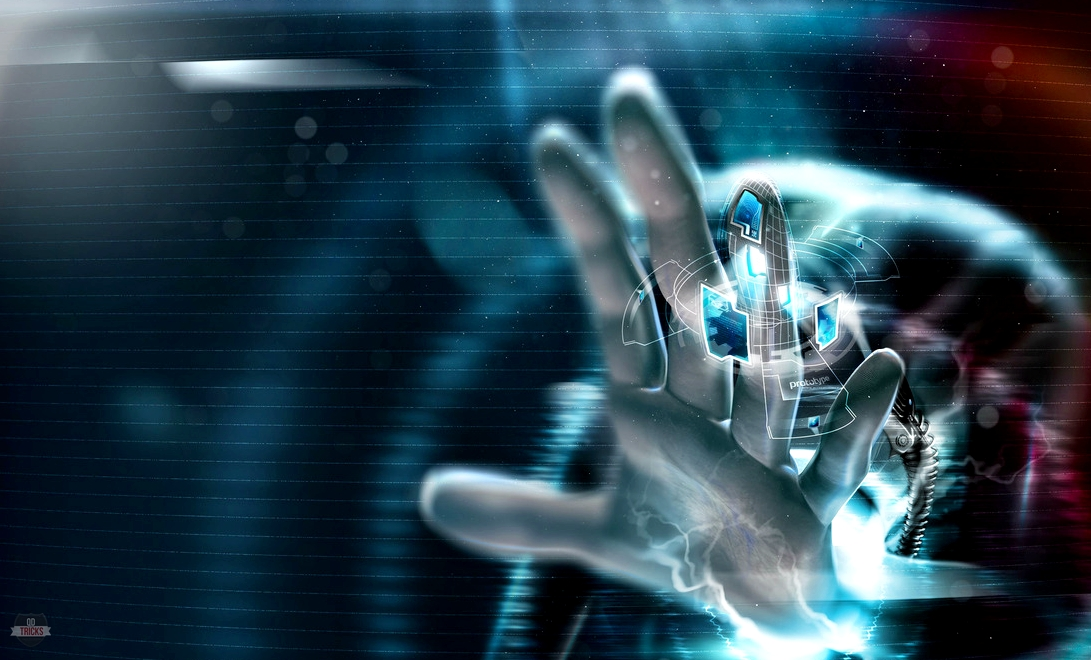
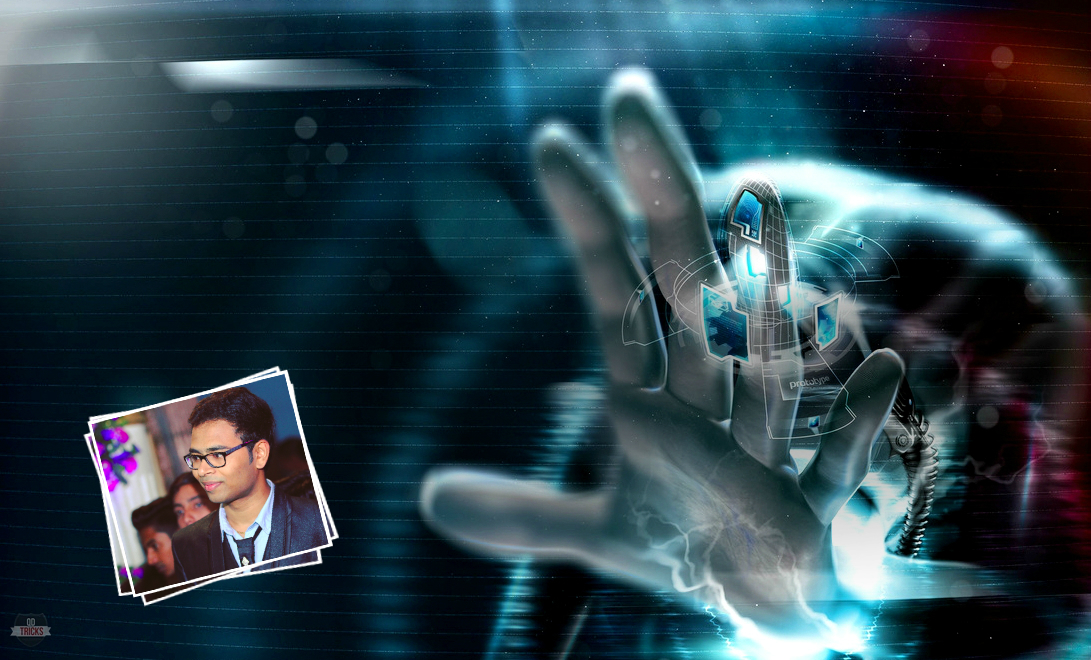
added my pic in bg image

diff --git a/index.html b/index.html
@@ -73,7 +73,7 @@
             <div class="header-content-inner">
                 <h1 id="homeHeading" style="text-shadow: 2px 2px #474545">Hi, I'm Abhishek Bharti</h1>
                 <hr>
-                <p style="text-shadow: 2px 2px #000000; font-size: 150%">The most important thing in life are the connections you make with others.</p>
+                <p style="text-shadow: 2px 2px #000000; font-size: 150%">The most important thing in life is the connections you make with others.</p>
                 <a href="#about" class="btn btn-primary btn-xl page-scroll">Who am I</a>
             </div>
         </div>
